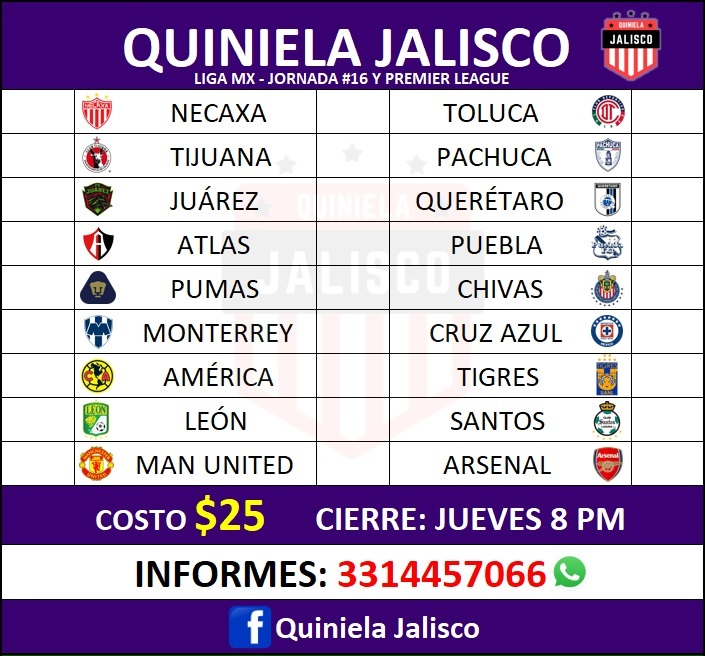
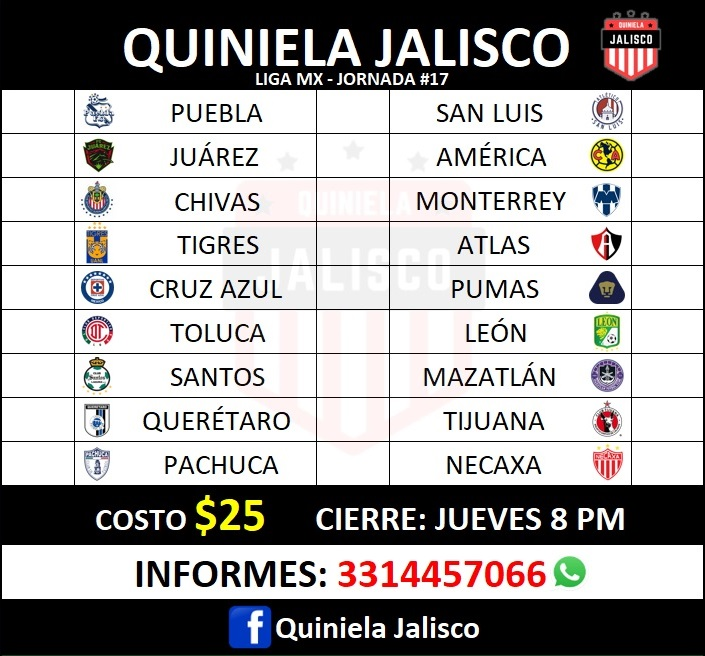
Jornada 17

diff --git a/styles.css b/styles.css
@@ -7,7 +7,7 @@
 
 .quiniela{
     margin: auto;
-    background-image: url("https://scontent.fgdl3-1.fna.fbcdn.net/v/t1.15752-9/122889604_266999198049479_6396941189400984115_n.png?_nc_cat=110&ccb=2&_nc_sid=ae9488&_nc_ohc=BGkiUoozs8gAX86hZA_&_nc_ht=scontent.fgdl3-1.fna&oh=87a75f5d6b36a0036915c7b7e90c792e&oe=5FBCCADC");
+    background-image: url("https://scontent-qro1-1.xx.fbcdn.net/v/t1.15752-9/123548783_709487822998142_1349923028048863647_n.png?_nc_cat=103&ccb=2&_nc_sid=ae9488&_nc_eui2=AeErSW3yyrgg3eZsmH5XCEuNemOJg2J4soJ6Y4mDYniygisIpT2hk9KGO-0DLEKJVK7FDIrNf5obkUAo3c9I0QBc&_nc_ohc=Lg5pXx9NSKUAX9Kz3uk&_nc_ht=scontent-qro1-1.xx&oh=1ec7bcfd192775ce0fbbb07682028ed4&oe=5FC64CE9");
     background-size: 100%;
     background-repeat: no-repeat;
     max-width: 400px;
@@ -79,8 +79,8 @@ h1{
     margin-top: 8%;
     border: solid 1px black;
     border-radius: 0 0 20px 20px;
-    background: -webkit-linear-gradient(0, black ,rgb(57,0,113) 80%);
-    background: linear-gradient(0, black,rgb(57,0,113) 80%);
+    background: -webkit-linear-gradient(0, black ,rgb(0,0,0) 80%);
+    background: linear-gradient(0, black,rgb(0,0,0) 80%);
 }
 
 h2,h3, #nombre{
